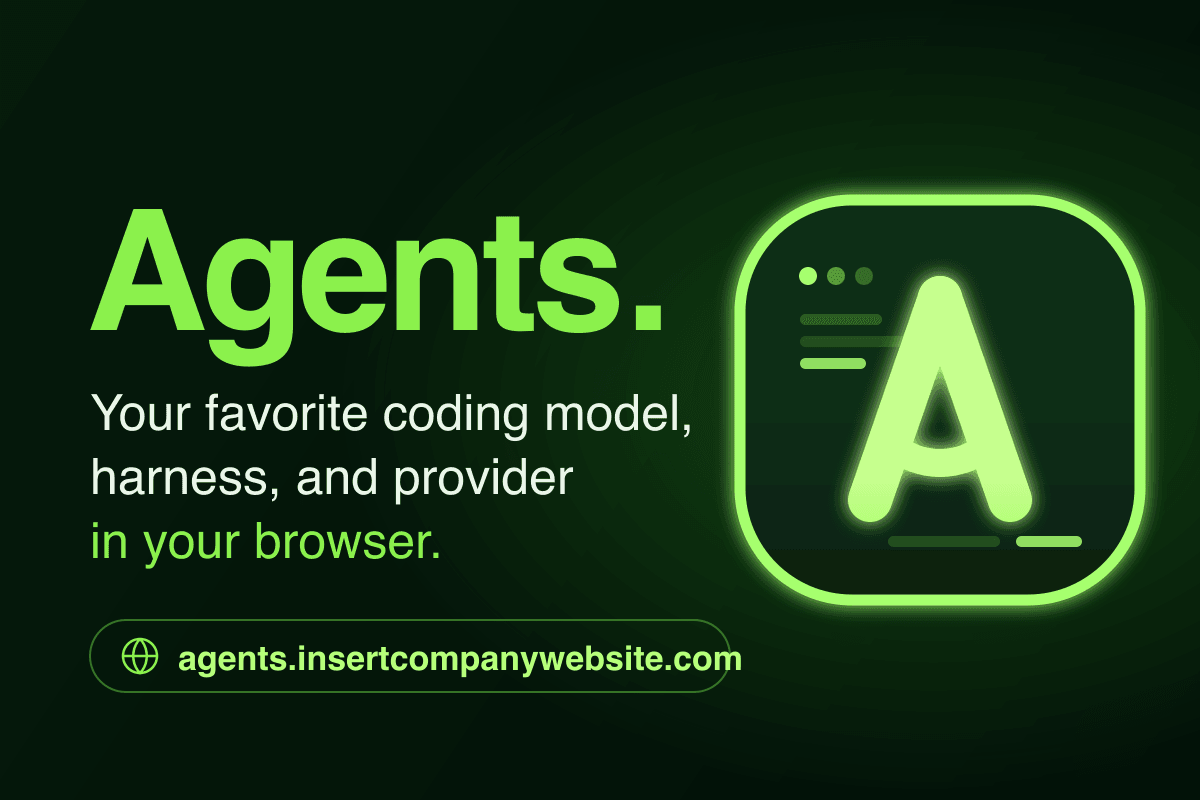
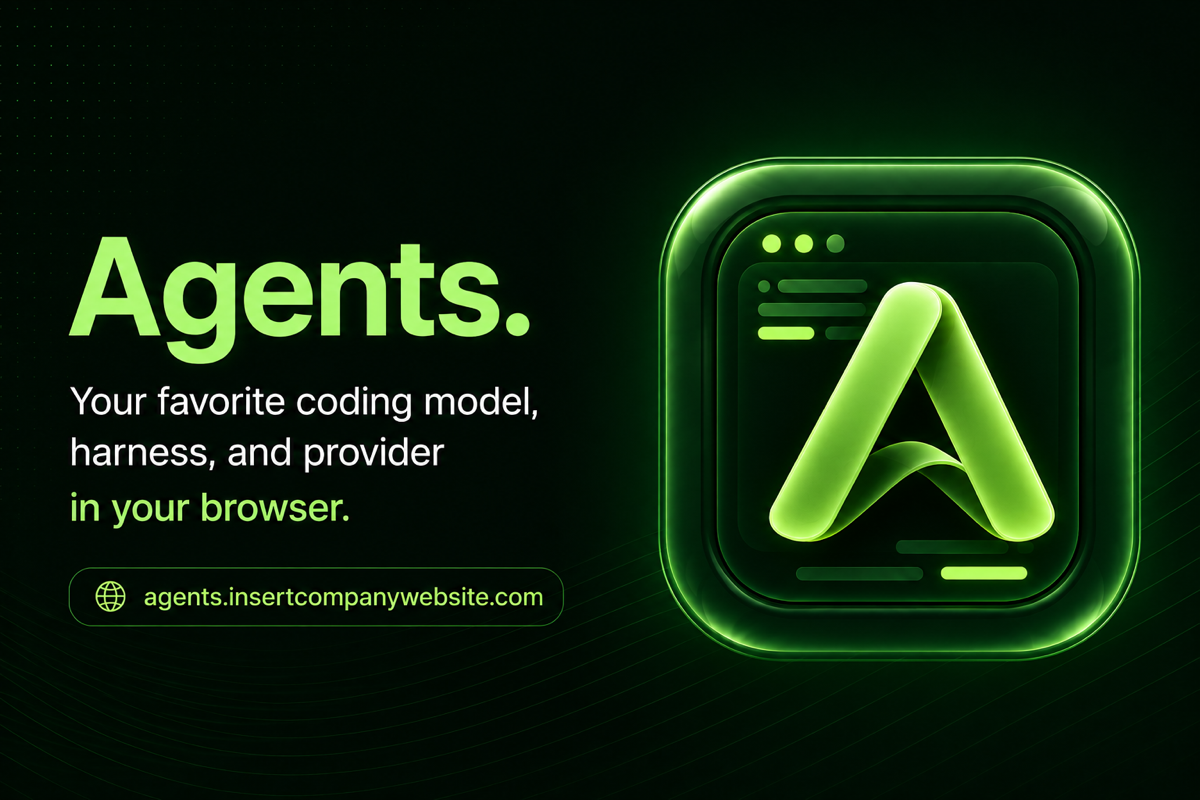
deploy modal: real brand image, and tell people what Cloudflare will ask before they go
The deploy form is one long page (git connection, two R2 buckets, four secrets, build commands)
and nothing prepares the visitor for it, so they land on it unsure whether to fill anything in.

- og.png is now Sina's actual artwork instead of the SVG recreation of it.
- The modal lists every field the form asks for, in the order it asks, and GENERATES
  ENCRYPTION_KEY and AUTH_SECRET in the browser with copy buttons, so the visitor pastes real
  values instead of hunting for a terminal to run openssl in. Nothing leaves the page.
- It states the prerequisites the form only hints at (Workers Paid with R2 enabled) and that the
  first deploy takes minutes because it builds the container image.
- APP_NAME and WORKER_NAME gained descriptions; they were the two fields with no explanation.
- Em dashes removed from the modal copy.

Changed region(s): [[0.0617, 0.1875, 1.0, 0.875]]

diff --git a/src/client/components/login-dialog.tsx b/src/client/components/login-dialog.tsx
@@ -1,7 +1,7 @@
 'use client'
 
-import { useEffect } from 'react'
-import { Boxes, Globe, Users, Wallet, X } from 'lucide-react'
+import { useEffect, useMemo, useState } from 'react'
+import { Boxes, Check, Copy, Globe, Users, Wallet, X } from 'lucide-react'
 
 import { Button } from '@/components/ui/button'
 import { LoginOptions, CloudflareMark } from './login-screen'
@@ -9,9 +9,51 @@ import { LoginOptions, CloudflareMark } from './login-screen'
 const REPO = 'https://github.com/sinameraji/agents'
 const DEPLOY = `https://deploy.workers.cloudflare.com/?url=${REPO}`
 
+/** 32 random bytes, base64: exactly what ENCRYPTION_KEY and AUTH_SECRET want. Generated in the
+ *  browser with the Web Crypto API and never sent anywhere, so the visitor can paste straight into
+ *  Cloudflare's form instead of hunting for a terminal to run openssl in. */
+function randomSecret(): string {
+  const bytes = crypto.getRandomValues(new Uint8Array(32))
+  return btoa(String.fromCharCode(...bytes))
+}
+
+/** One row of the pre-flight checklist: a field Cloudflare will ask for, with its value ready to
+ *  copy when we can generate it for them. */
+function Field({ name, hint, value }: { name: string; hint: string; value?: string }) {
+  const [copied, setCopied] = useState(false)
+  return (
+    <li className="flex flex-col gap-1 rounded-lg border border-border bg-muted/40 px-3 py-2">
+      <div className="flex items-center justify-between gap-2">
+        <span className="font-mono text-xs font-semibold text-foreground">{name}</span>
+        {value && (
+          <button
+            type="button"
+            onClick={() => {
+              void navigator.clipboard.writeText(value).then(() => {
+                setCopied(true)
+                setTimeout(() => setCopied(false), 1500)
+              })
+            }}
+            className="flex items-center gap-1 rounded-md border border-border bg-background px-2 py-0.5 text-[0.7rem] text-muted-foreground transition-colors hover:text-foreground"
+          >
+            {copied ? <Check className="size-3" /> : <Copy className="size-3" />}
+            {copied ? 'Copied' : 'Copy'}
+          </button>
+        )}
+      </div>
+      {value && <code className="truncate font-mono text-[0.7rem] text-muted-foreground">{value}</code>}
+      <span className="text-xs text-muted-foreground">{hint}</span>
+    </li>
+  )
+}
+
 /** Raised when a guest attempts something consequential. On a normal instance it offers login;
  *  on the public host (`deploy`) it makes the self-host pitch, since there's no hosted service. */
 export function LoginDialog({ onClose, deploy }: { onClose: () => void; deploy?: boolean }) {
+  // Generated once per open: re-rolling them while the user is mid-copy would hand Cloudflare a
+  // different value than the one they pasted.
+  const encryptionKey = useMemo(() => randomSecret(), [])
+  const authSecret = useMemo(() => randomSecret(), [])
   useEffect(() => {
     const onKey = (e: KeyboardEvent) => e.key === 'Escape' && onClose()
     document.addEventListener('keydown', onKey)
@@ -33,24 +75,24 @@ export function LoginDialog({ onClose, deploy }: { onClose: () => void; deploy?:
 
         {deploy ? (
           <>
-            {/* Visual hero — the brand at a glance */}
-            <img src="/og.png" alt="Agents. — your favorite coding model, harness, and provider in your browser" className="w-full" />
+            {/* Visual hero: the brand at a glance */}
+            <img src="/og.png" alt="Agents. Your favorite coding model, harness, and provider in your browser." className="w-full" />
 
-            <div className="flex flex-col gap-4 p-6">
+            <div className="flex max-h-[70vh] flex-col gap-4 overflow-y-auto p-6">
               <div>
                 <h2 className="text-base font-semibold">Run Agents. for your whole company</h2>
                 <p className="mt-1 text-sm text-muted-foreground">
-                  There is no hosted service — you deploy it to your own Cloudflare. Your containers,
+                  There is no hosted service. You deploy it to your own Cloudflare: your containers,
                   your keys, your bill.
                 </p>
               </div>
 
               <ul className="flex flex-col gap-2.5 text-sm">
                 <ProTip icon={<Globe className="size-4" />}>
-                  Point a custom domain — <span className="font-mono text-foreground">agents.yourcompany.com</span>
+                  Point a custom domain at it, like <span className="font-mono text-foreground">agents.yourcompany.com</span>
                 </ProTip>
                 <ProTip icon={<Users className="size-4" />}>
-                  Invite your team with access control — nobody sees anyone else's sessions
+                  Invite your team with access control, so nobody sees anyone else's sessions
                 </ProTip>
                 <ProTip icon={<Wallet className="size-4" />}>
                   Everyone sees their own token usage; you set optional budget caps
@@ -59,6 +101,27 @@ export function LoginDialog({ onClose, deploy }: { onClose: () => void; deploy?:
                   Each person brings their own model, harness, and provider
                 </ProTip>
               </ul>
+
+              <div className="rounded-lg border border-border p-3">
+                <h3 className="text-sm font-semibold">What Cloudflare will ask you for</h3>
+                <p className="mt-1 text-xs text-muted-foreground">
+                  The next page is one form. It needs a Workers Paid plan with R2 enabled, and these
+                  values. The two secrets below are generated right here in your browser, so copy them
+                  now and paste them into the matching fields.
+                </p>
+                <ul className="mt-3 flex flex-col gap-2">
+                  <Field name="Git account" hint="Connect GitHub or GitLab. Cloudflare copies this repo into your account and redeploys on every push." />
+                  <Field name="R2 buckets (2)" hint="One for uploads, one for workspace snapshots. Click new on each and accept the suggested name." />
+                  <Field name="ENCRYPTION_KEY" hint="Encrypts the model provider keys you paste into Settings." value={encryptionKey} />
+                  <Field name="AUTH_SECRET" hint="Signs your login session cookie." value={authSecret} />
+                  <Field name="APP_PASSWORD" hint="You choose it. It is the password you log in with, so make it strong." />
+                  <Field name="OWNER_EMAIL" hint="Your email. Makes you the admin who can invite members. Optional." />
+                </ul>
+                <p className="mt-3 text-xs text-muted-foreground">
+                  Leave the build, deploy and preview commands exactly as they are. The first deploy
+                  takes several minutes because it builds the sandbox container image.
+                </p>
+              </div>
 
               <a
                 href={DEPLOY}
